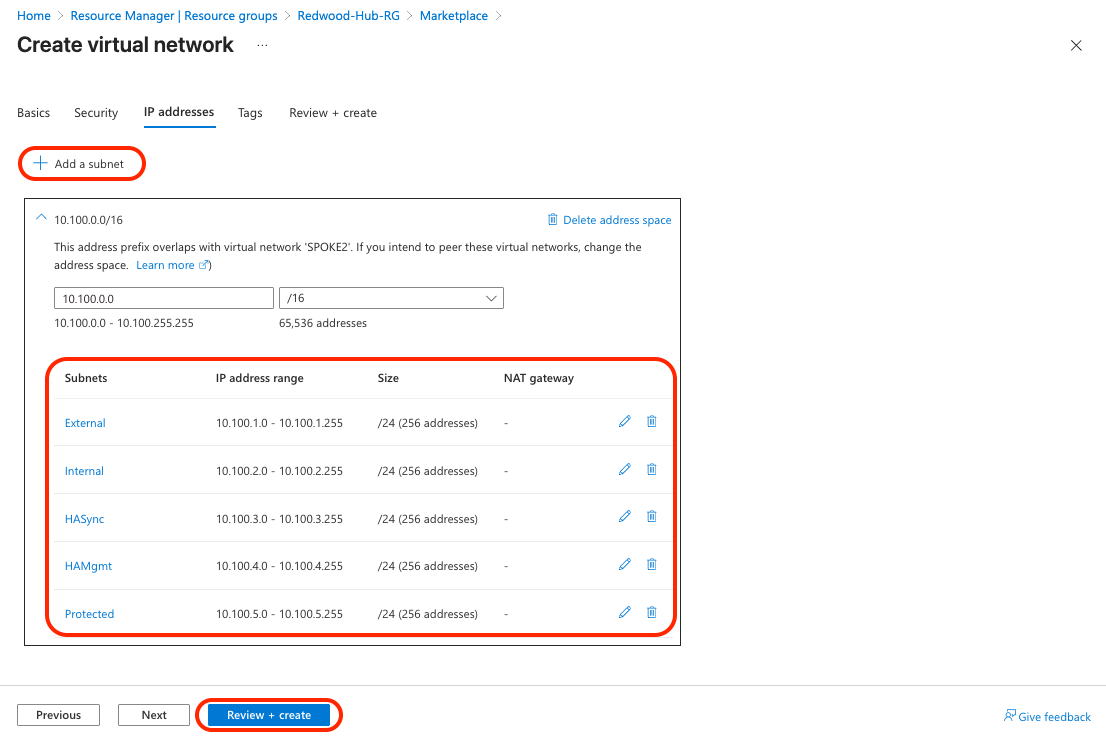
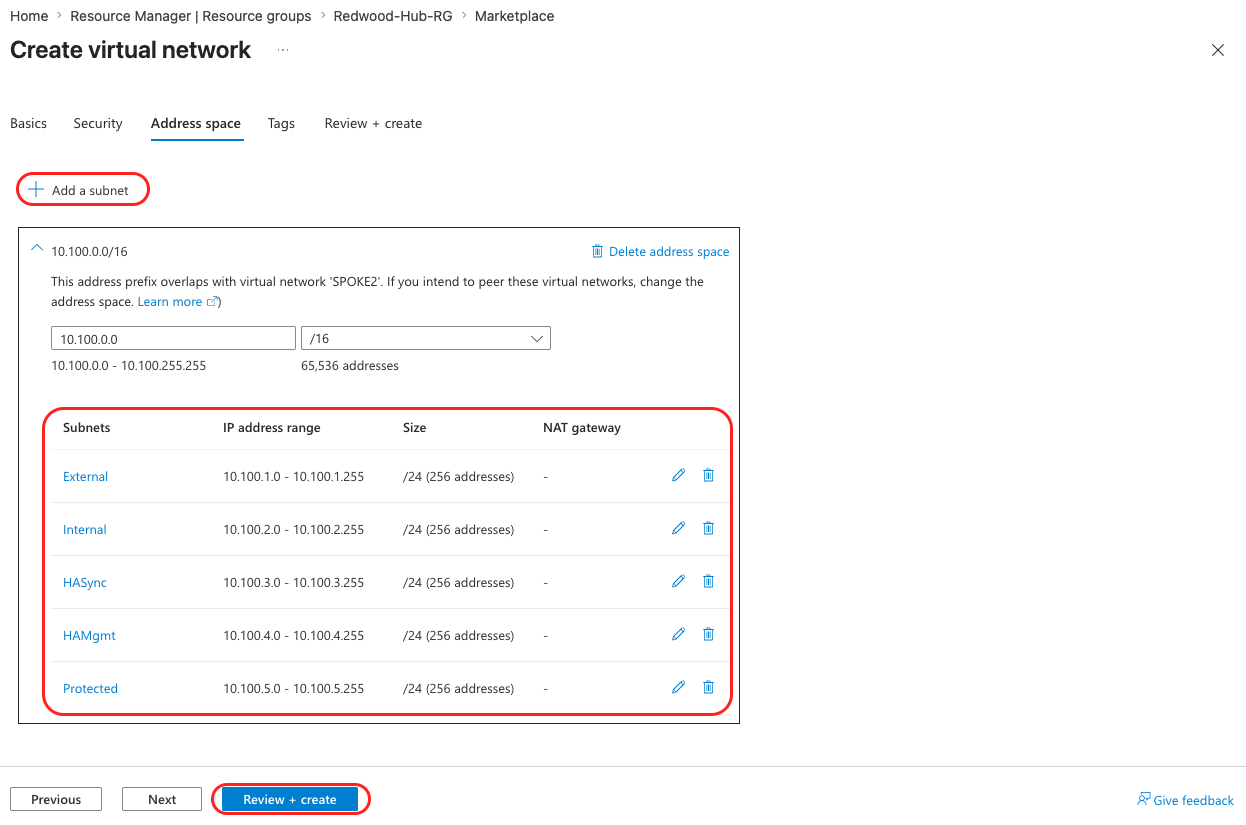
Initial version

diff --git a/az-102-lab1/README.md b/az-102-lab1/README.md
@@ -4,7 +4,7 @@
 
 **Duration:** 45 minutes  
 **Difficulty:** Intermediate  
-**Prerequisites:** Azure subscription with Contributor access, 2 FortiFlex tokens
+**Prerequisites:** Azure subscription with Contributor access, 2 FortiFlex tokens (provided by your instructor)
 
 ### Objective
 